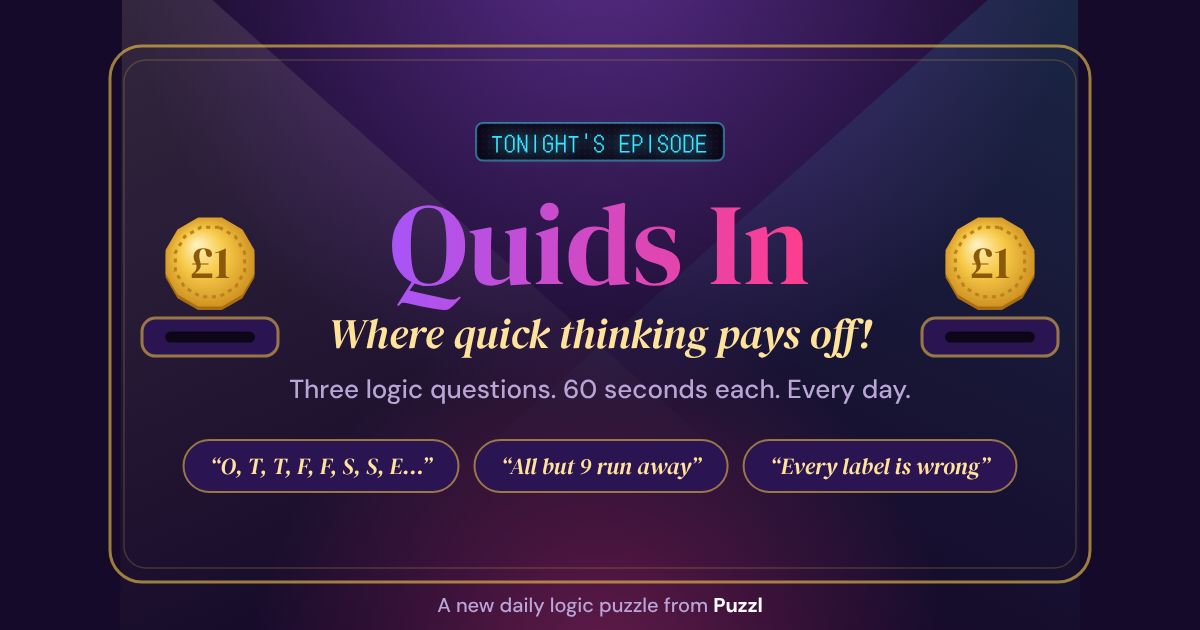
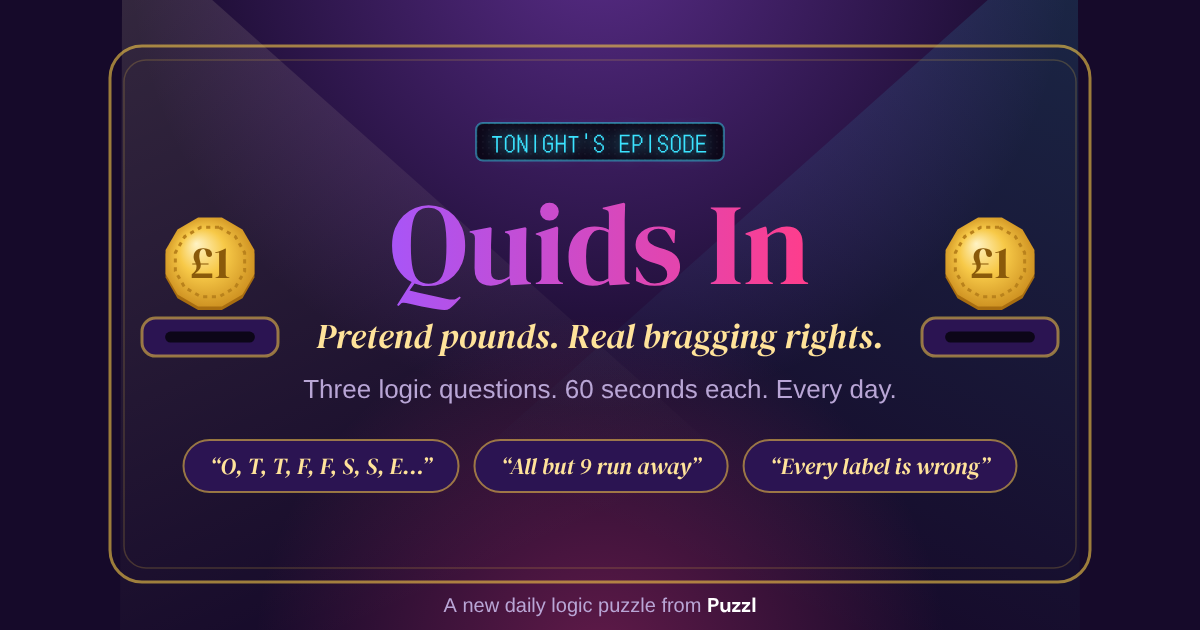
Add files via upload

Changed region(s): [[0.2467, 0.4825, 0.74, 0.573], [0.37, 0.9349, 0.6475, 0.9952], [0.2467, 0.6032, 0.7708, 0.6333]]

diff --git a/index.html b/index.html
@@ -5,11 +5,11 @@
 <meta name="viewport" content="width=device-width, initial-scale=1, viewport-fit=cover">
 <meta name="theme-color" content="#160a2a">
 <title>Quids In · Puzzl</title>
-<meta name="description" content="Three logic questions. Sixty seconds each. Every second left is £1 in the bank. A daily gameshow puzzle from Puzzl.">
+<meta name="description" content="Three logic questions. Sixty seconds each. Every second left is a pretend pound in the bank. A daily gameshow puzzle from Puzzl.">
 <meta property="og:type" content="website">
 <meta property="og:site_name" content="Puzzl">
-<meta property="og:title" content="Quids In · Where quick thinking pays off!">
-<meta property="og:description" content="Three logic questions. Sixty seconds each. Every second left is £1 in the bank.">
+<meta property="og:title" content="Quids In · Pretend pounds. Real bragging rights.">
+<meta property="og:description" content="Three logic questions. Sixty seconds each. Every second left is a pretend pound in the bank.">
 <meta property="og:url" content="https://playpuzzl.com/QuidsIn/">
 <meta property="og:image" content="https://playpuzzl.com/QuidsIn/og-image.png">
 <meta property="og:image:width" content="1200">
@@ -245,7 +245,7 @@ footer b{color:#fff}
     </svg>
   </div>
   <h1>Quids In</h1>
-  <p class="sub">Where quick thinking pays off!</p>
+  <p class="sub">Pretend pounds. Real bragging rights.</p>
 
   <section id="play">
     <div class="status">
@@ -1006,7 +1006,7 @@ async function drawShare() {
   slotDraw(x, 540, 262, 190);
   ledBox(x, `EPISODE ${DAY}`, 540, 395, 30, '#3be3ff');
   gradTitle(x, 'Quids In', 540, 540, 150);
-  text(x, 'Where quick thinking pays off!', 540, 608, "italic 400 46px 'DM Serif Display',Georgia,serif", '#ffe39a');
+  text(x, 'Pretend pounds. Real bragging rights.', 540, 608, "italic 400 46px 'DM Serif Display',Georgia,serif", '#ffe39a');
   const s = 150, gap = 28, sx = 540 - (PER_DAY * s + (PER_DAY - 1) * gap) / 2;
   S.results.forEach((r, i) => { rrect(x, sx + i * (s + gap), 660, s, s, 28); x.fillStyle = SQ_COL[r.k]; x.fill(); });
   ledBox(x, `BANKED ${money(banked())}`, 540, 925, 58, '#f7c948');
@@ -1039,7 +1039,7 @@ async function drawOG() {
   coinDraw(x, 990, 262, 46); slotDraw(x, 990, 318, 136);
   ledBox(x, "TONIGHT'S EPISODE", 600, 150, 22, '#3be3ff');
   gradTitle(x, 'Quids In', 600, 284, 116);
-  text(x, 'Where quick thinking pays off!', 600, 348, "italic 400 42px 'DM Serif Display',Georgia,serif", '#ffe39a');
+  text(x, 'Pretend pounds. Real bragging rights.', 600, 348, "italic 400 35px 'DM Serif Display',Georgia,serif", '#ffe39a');
   text(x, 'Three logic questions. 60 seconds each. Every day.', 600, 398, "500 26px 'DM Sans',sans-serif", '#b9a6d6');
   const pills = ['“O, T, T, F, F, S, S, E…”', '“All but 9 run away”', '“Every label is wrong”'];
   x.font = "italic 400 23px 'DM Serif Display',Georgia,serif";
